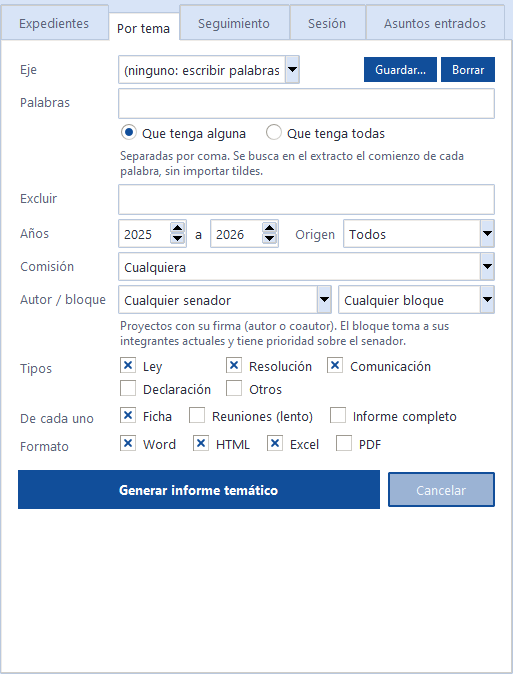
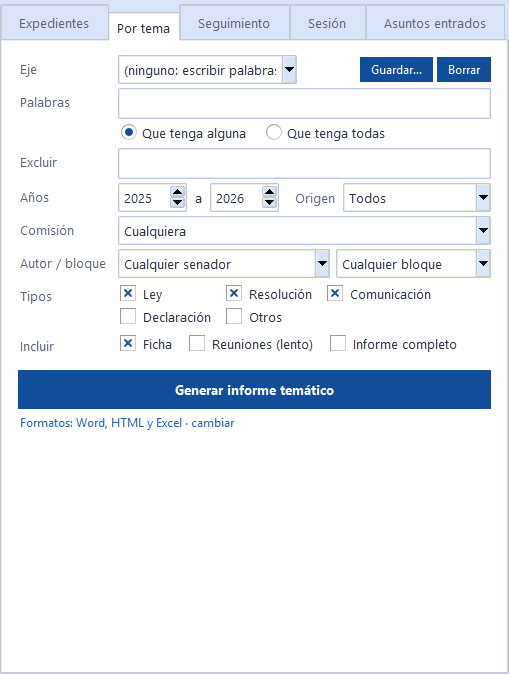
Manual: capturas de la versión 1.1.0 y aviso cuando GitHub no puede tomarlas
El paso de capturas tenía continue-on-error: en GitHub fallaba sin que se viera
y el manual salía con las capturas viejas del repositorio. Ahora se suben las
capturas nuevas, el paso avisa en amarillo si no puede tomarlas, y capturar.py
dibuja la ventana a escala 100 % aunque Windows esté al 125 % o 150 %, para que
el texto no quede más grande ni cortado.

diff --git a/manual/capturas/informe_ejemplo.html b/manual/capturas/informe_ejemplo.html
@@ -103,4 +103,4 @@ footer ul{padding-left:18px;margin:6px 0}
   tr,.bloque{break-inside:avoid}
   .situacion,.paso::before,th{-webkit-print-color-adjust:exact;print-color-adjust:exact}
 }
-</style></head><body><main class='hoja'><div class="membrete"><span>H. Senado de la Nación</span><span>Informe del 02/11/2026, 09:02 h</span></div><h1 class="numero">S-351/25</h1><p class="descripcion">Proyecto de ley presentado en el Senado</p><p class="extracto">GALARETTO Y OTROS: PROYECTO DE LEY QUE MODIFICA SU SIMILAR 26.529 -DERECHO DEL PACIENTE EN SU RELACION CON LOS PROFESIONALES E INSTITUCIONES DE SALUD- RESPECTO DE LOS REQUISITOS DEL CONSENTIMIENTO INFORMADO ESCRITO.</p><p class="enlaces"><span><a href="https://www.senado.gob.ar/parlamentario/comisiones/verExp/351.25/S/PL" target="_blank" rel="noopener">Ficha en el sitio del Senado</a></span><span><a href="https://www.senado.gob.ar/parlamentario/parlamentaria/486638/downloadPdf" target="_blank" rel="noopener">Texto original (PDF)</a></span></p><section class="situacion " aria-labelledby="situacion"><p class="rotulo">Situación actual</p><h2 id="situacion">En comisión: Salud</h2><ul><li>Ingresó a comisión el 05/03/2026.</li><li>Tuvo dictamen (Orden del Día N° 527/25), que caducó por la renovación bienal del cuerpo; el expediente volvió a comisión.</li></ul><ol class="pasos" style="--n:6" aria-label="Recorrido del trámite"><li class="paso hecho" aria-label="Ingreso al Senado: cumplido"><strong>Ingreso al Senado</strong>27/03/2025 DAE 18/2025</li><li class="paso actual" aria-label="Comisión: etapa actual"><strong>Comisión</strong>05/03/2026 Salud</li><li class="paso pendiente" aria-label="Dictamen: pendiente"><strong>Dictamen</strong></li><li class="paso pendiente" aria-label="Sanción del Senado: pendiente"><strong>Sanción del Senado</strong></li><li class="paso pendiente" aria-label="Cámara de Diputados: pendiente"><strong>Cámara de Diputados</strong></li><li class="paso pendiente" aria-label="Ley y Poder Ejecutivo: pendiente"><strong>Ley y Poder Ejecutivo</strong></li></ol><p class="caducidad"><strong>Caducidad estimada: 28/02/2027.</strong> Ley 13.640 (texto según Ley 23.821): caduca si no obtiene sanción en una de las cámaras durante el año parlamentario de ingreso (2025) o el siguiente.</p></section><nav class="indice-doc" aria-label="Índice"><p class="rotulo">En este informe</p><ol><li><a href="#seccion-1">Datos del expediente</a></li><li><a href="#seccion-2">Giros a comisiones</a></li><li><a href="#seccion-3">Reuniones de comisión en que se trató</a></li><li><a href="#seccion-4">Órdenes del Día del Senado</a></li><li><a href="#seccion-5">Expedientes relacionados</a></li><li><a href="#seccion-6">Votaciones en el recinto</a></li><li><a href="#seccion-7">Observaciones de la ficha</a></li></ol></nav><h2 id="seccion-1">Datos del expediente</h2><dl class="datos"><dt>Expediente</dt><dd><a href="https://www.senado.gob.ar/parlamentario/comisiones/verExp/351.25/S/PL" target="_blank" rel="noopener">S-351/25 (PL)</a></dd><dt>Tipo</dt><dd>Proyecto de ley</dd><dt>Origen</dt><dd>Senado de la Nación</dd><dt>Autores</dt><dd><a href="https://www.senado.gob.ar/senadores/senador/573" target="_blank" rel="noopener">Galaretto, Eduardo Horacio</a>; <a href="https://www.senado.gob.ar/senadores/senador/546" target="_blank" rel="noopener">Abad, Maximiliano</a>; <a href="https://www.senado.gob.ar/senadores/senador/536" target="_blank" rel="noopener">Losada, Carolina</a>; Zimmermann, Victor</dd><dt>Ingreso por mesa de entradas</dt><dd>27/03/2025</dd><dt>Dado cuenta en sesión</dt><dd>24/04/2025</dd><dt>Diario de Asuntos Entrados</dt><dd>N° 18/2025 (normal)</dd><dt>Textos</dt><dd><a href="https://www.senado.gob.ar/parlamentario/parlamentaria/486638/downloadPdf" target="_blank" rel="noopener">Texto original (PDF)</a>; texto definitivo en proceso de carga</dd></dl><h2 id="seccion-2">Giros a comisiones</h2><div class="tabla"><table><thead><tr><th>Comisión</th><th>Orden de giro</th><th>Ingreso</th><th>Egreso</th></tr></thead><tbody><tr><td>Salud</td><td>2</td><td class="fecha">05/03/2026</td><td class="fecha">en curso</td></tr><tr><td>Salud</td><td>1</td><td class="fecha">04/04/2025</td><td class="fecha">28/08/2025</td></tr></tbody></table></div><h2 id="seccion-3">Reuniones de comisión en que se trató</h2><p class="vacio">No se buscaron reuniones de comisión para este informe.</p><p class="secundario">No se buscaron reuniones de comisión.</p><h2 id="seccion-4">Órdenes del Día del Senado</h2><div class="tabla"><table><thead><tr><th>Número</th><th>Fecha</th><th>Estado</th><th>Texto</th></tr></thead><tbody><tr><td><a href="https://www.senado.gob.ar/parlamentario/parlamentaria/ordenDelDiaResultadoLink/2025/527" target="_blank" rel="noopener">N° 527/25</a></td><td class='fecha'>28/08/2025</td><td>Caduca por renov. bienal</td><td><a href="https://www.senado.gob.ar/parlamentario/parlamentaria/38001/downloadOrdenDia" target="_blank" rel="noopener">Dictamen (PDF)</a></td></tr></tbody></table></div><h2 id="seccion-5">Expedientes relacionados</h2><p>No se encontraron expedientes tratados en conjunto ni tenidos a la vista en la orden del día, el dictamen, la ficha ni el temario de las reuniones.</p><h2 id="seccion-6">Votaciones en el recinto</h2><p>No se encontraron votaciones del recinto sobre este expediente ni sobre sus órdenes del día.</p><h2 id="seccion-7">Observaciones de la ficha</h2><ul><li>04-03-26 VUELVE A COMISION POR ISP 27/26 , SEGUN EL ART. 106 PARRAFO 4° DEL REGLAMENTO DEL H. SENADO, POR RENOVACION BIENAL DEL CUERPO.</li><li>31-07-25 INC. DE FIRMA SDOR. ABAD (F. 6)</li></ul><footer><p>Informe generado automáticamente con datos públicos del sitio del H. Senado de la Nación (<a href="https://www.senado.gob.ar/parlamentario/comisiones/verExp/351.25/S/PL" target="_blank" rel="noopener">ficha del expediente</a>). Antes de usarlo en un trámite oficial, verificá los datos en la fuente. Programa Informe de Expedientes, versión 0.2.0.</p></footer></main></body></html>
+</style></head><body><main class='hoja'><div class="membrete"><span>H. Senado de la Nación</span><span>Informe del 02/11/2026, 22:54 h</span></div><h1 class="numero">S-351/25</h1><p class="descripcion">Proyecto de ley presentado en el Senado</p><p class="extracto">GALARETTO Y OTROS: PROYECTO DE LEY QUE MODIFICA SU SIMILAR 26.529 -DERECHO DEL PACIENTE EN SU RELACION CON LOS PROFESIONALES E INSTITUCIONES DE SALUD- RESPECTO DE LOS REQUISITOS DEL CONSENTIMIENTO INFORMADO ESCRITO.</p><p class="enlaces"><span><a href="https://www.senado.gob.ar/parlamentario/comisiones/verExp/351.25/S/PL" target="_blank" rel="noopener">Ficha en el sitio del Senado</a></span><span><a href="https://www.senado.gob.ar/parlamentario/parlamentaria/486638/downloadPdf" target="_blank" rel="noopener">Texto original (PDF)</a></span></p><section class="situacion " aria-labelledby="situacion"><p class="rotulo">Situación actual</p><h2 id="situacion">En comisión: Salud</h2><ul><li>Ingresó a comisión el 05/03/2026.</li><li>Tuvo dictamen (Orden del Día N° 527/25), que caducó por la renovación bienal del cuerpo; el expediente volvió a comisión.</li></ul><ol class="pasos" style="--n:6" aria-label="Recorrido del trámite"><li class="paso hecho" aria-label="Ingreso al Senado: cumplido"><strong>Ingreso al Senado</strong>27/03/2025 DAE 18/2025</li><li class="paso actual" aria-label="Comisión: etapa actual"><strong>Comisión</strong>05/03/2026 Salud</li><li class="paso pendiente" aria-label="Dictamen: pendiente"><strong>Dictamen</strong></li><li class="paso pendiente" aria-label="Sanción del Senado: pendiente"><strong>Sanción del Senado</strong></li><li class="paso pendiente" aria-label="Cámara de Diputados: pendiente"><strong>Cámara de Diputados</strong></li><li class="paso pendiente" aria-label="Ley y Poder Ejecutivo: pendiente"><strong>Ley y Poder Ejecutivo</strong></li></ol><p class="caducidad"><strong>Caducidad estimada: 28/02/2027.</strong> Ley 13.640 (texto según Ley 23.821): caduca si no obtiene sanción en una de las cámaras durante el año parlamentario de ingreso (2025) o el siguiente.</p></section><nav class="indice-doc" aria-label="Índice"><p class="rotulo">En este informe</p><ol><li><a href="#seccion-1">Datos del expediente</a></li><li><a href="#seccion-2">Giros a comisiones</a></li><li><a href="#seccion-3">Reuniones de comisión en que se trató</a></li><li><a href="#seccion-4">Órdenes del Día del Senado</a></li><li><a href="#seccion-5">Expedientes relacionados</a></li><li><a href="#seccion-6">Votaciones en el recinto</a></li><li><a href="#seccion-7">Observaciones de la ficha</a></li></ol></nav><h2 id="seccion-1">Datos del expediente</h2><dl class="datos"><dt>Expediente</dt><dd><a href="https://www.senado.gob.ar/parlamentario/comisiones/verExp/351.25/S/PL" target="_blank" rel="noopener">S-351/25 (PL)</a></dd><dt>Tipo</dt><dd>Proyecto de ley</dd><dt>Origen</dt><dd>Senado de la Nación</dd><dt>Autores</dt><dd><a href="https://www.senado.gob.ar/senadores/senador/573" target="_blank" rel="noopener">Galaretto, Eduardo Horacio</a>; <a href="https://www.senado.gob.ar/senadores/senador/546" target="_blank" rel="noopener">Abad, Maximiliano</a>; <a href="https://www.senado.gob.ar/senadores/senador/536" target="_blank" rel="noopener">Losada, Carolina</a>; Zimmermann, Victor</dd><dt>Ingreso por mesa de entradas</dt><dd>27/03/2025</dd><dt>Dado cuenta en sesión</dt><dd>24/04/2025</dd><dt>Diario de Asuntos Entrados</dt><dd>N° 18/2025 (normal)</dd><dt>Textos</dt><dd><a href="https://www.senado.gob.ar/parlamentario/parlamentaria/486638/downloadPdf" target="_blank" rel="noopener">Texto original (PDF)</a>; texto definitivo en proceso de carga</dd></dl><h2 id="seccion-2">Giros a comisiones</h2><div class="tabla"><table><thead><tr><th>Comisión</th><th>Orden de giro</th><th>Ingreso</th><th>Egreso</th></tr></thead><tbody><tr><td>Salud</td><td>2</td><td class="fecha">05/03/2026</td><td class="fecha">en curso</td></tr><tr><td>Salud</td><td>1</td><td class="fecha">04/04/2025</td><td class="fecha">28/08/2025</td></tr></tbody></table></div><h2 id="seccion-3">Reuniones de comisión en que se trató</h2><p class="vacio">No se buscaron reuniones de comisión para este informe.</p><p class="secundario">No se buscaron reuniones de comisión.</p><h2 id="seccion-4">Órdenes del Día del Senado</h2><div class="tabla"><table><thead><tr><th>Número</th><th>Fecha</th><th>Estado</th><th>Texto</th></tr></thead><tbody><tr><td><a href="https://www.senado.gob.ar/parlamentario/parlamentaria/ordenDelDiaResultadoLink/2025/527" target="_blank" rel="noopener">N° 527/25</a></td><td class='fecha'>28/08/2025</td><td>Caduca por renov. bienal</td><td><a href="https://www.senado.gob.ar/parlamentario/parlamentaria/38001/downloadOrdenDia" target="_blank" rel="noopener">Dictamen (PDF)</a></td></tr></tbody></table></div><h2 id="seccion-5">Expedientes relacionados</h2><p>No se encontraron expedientes tratados en conjunto ni tenidos a la vista en la orden del día, el dictamen, la ficha ni el temario de las reuniones.</p><h2 id="seccion-6">Votaciones en el recinto</h2><p>No se encontraron votaciones del recinto sobre este expediente ni sobre sus órdenes del día.</p><h2 id="seccion-7">Observaciones de la ficha</h2><ul><li>04-03-26 VUELVE A COMISION POR ISP 27/26 , SEGUN EL ART. 106 PARRAFO 4° DEL REGLAMENTO DEL H. SENADO, POR RENOVACION BIENAL DEL CUERPO.</li><li>31-07-25 INC. DE FIRMA SDOR. ABAD (F. 6)</li></ul><footer><p>Informe generado automáticamente con datos públicos del sitio del H. Senado de la Nación (<a href="https://www.senado.gob.ar/parlamentario/comisiones/verExp/351.25/S/PL" target="_blank" rel="noopener">ficha del expediente</a>). Antes de usarlo en un trámite oficial, verificá los datos en la fuente. Programa Informe de Expedientes, versión 1.1.0.</p></footer></main></body></html>

diff --git a/manual/capturar.py b/manual/capturar.py
@@ -106,6 +106,15 @@ def principal() -> None:
         except Exception:
             pass
     SALIDA.mkdir(exist_ok=True)
+    # Las capturas se toman siempre a escala 100 % (96 ppp), aunque la PC tenga Windows al 125 % o 150 %: si no,
+    # las letras salen más grandes, no entran en la ventana de 1280 × 800 y las columnas quedan cortadas.
+    iniciar = gui.tk.Tk.__init__
+
+    def a_escala_100(ventana, *args, **kwargs):
+        iniciar(ventana, *args, **kwargs)
+        ventana.tk.call("tk", "scaling", 96 / 72)
+
+    gui.tk.Tk.__init__ = a_escala_100
     app = gui.Aplicacion()
     app.geometry("1280x800+0+0")
     app.attributes("-topmost", True)
